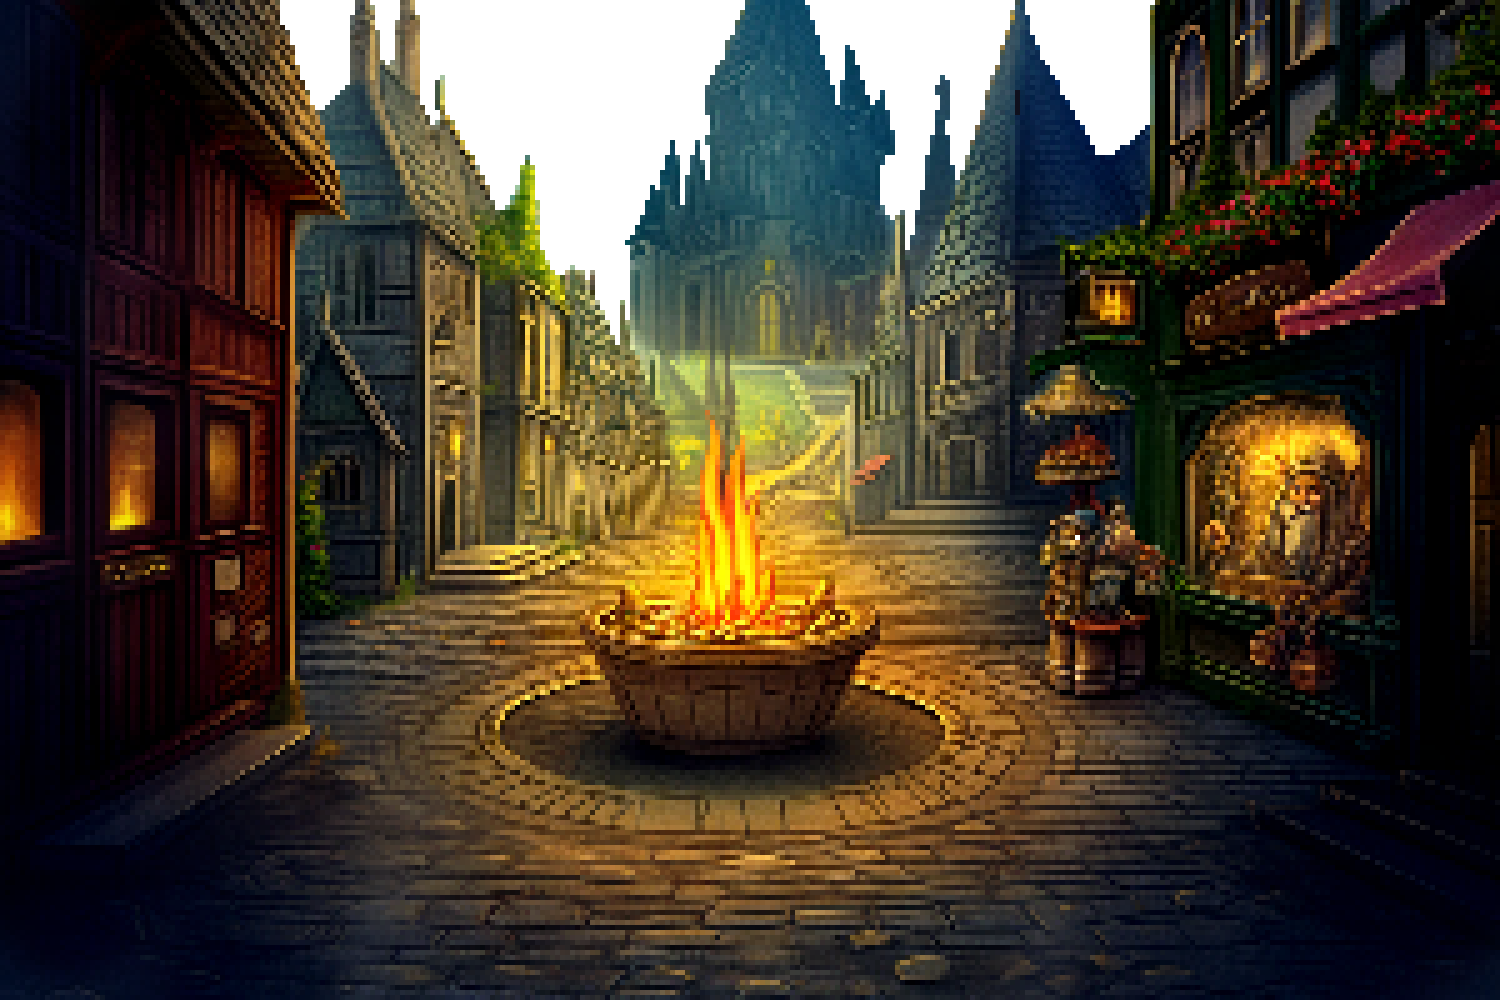
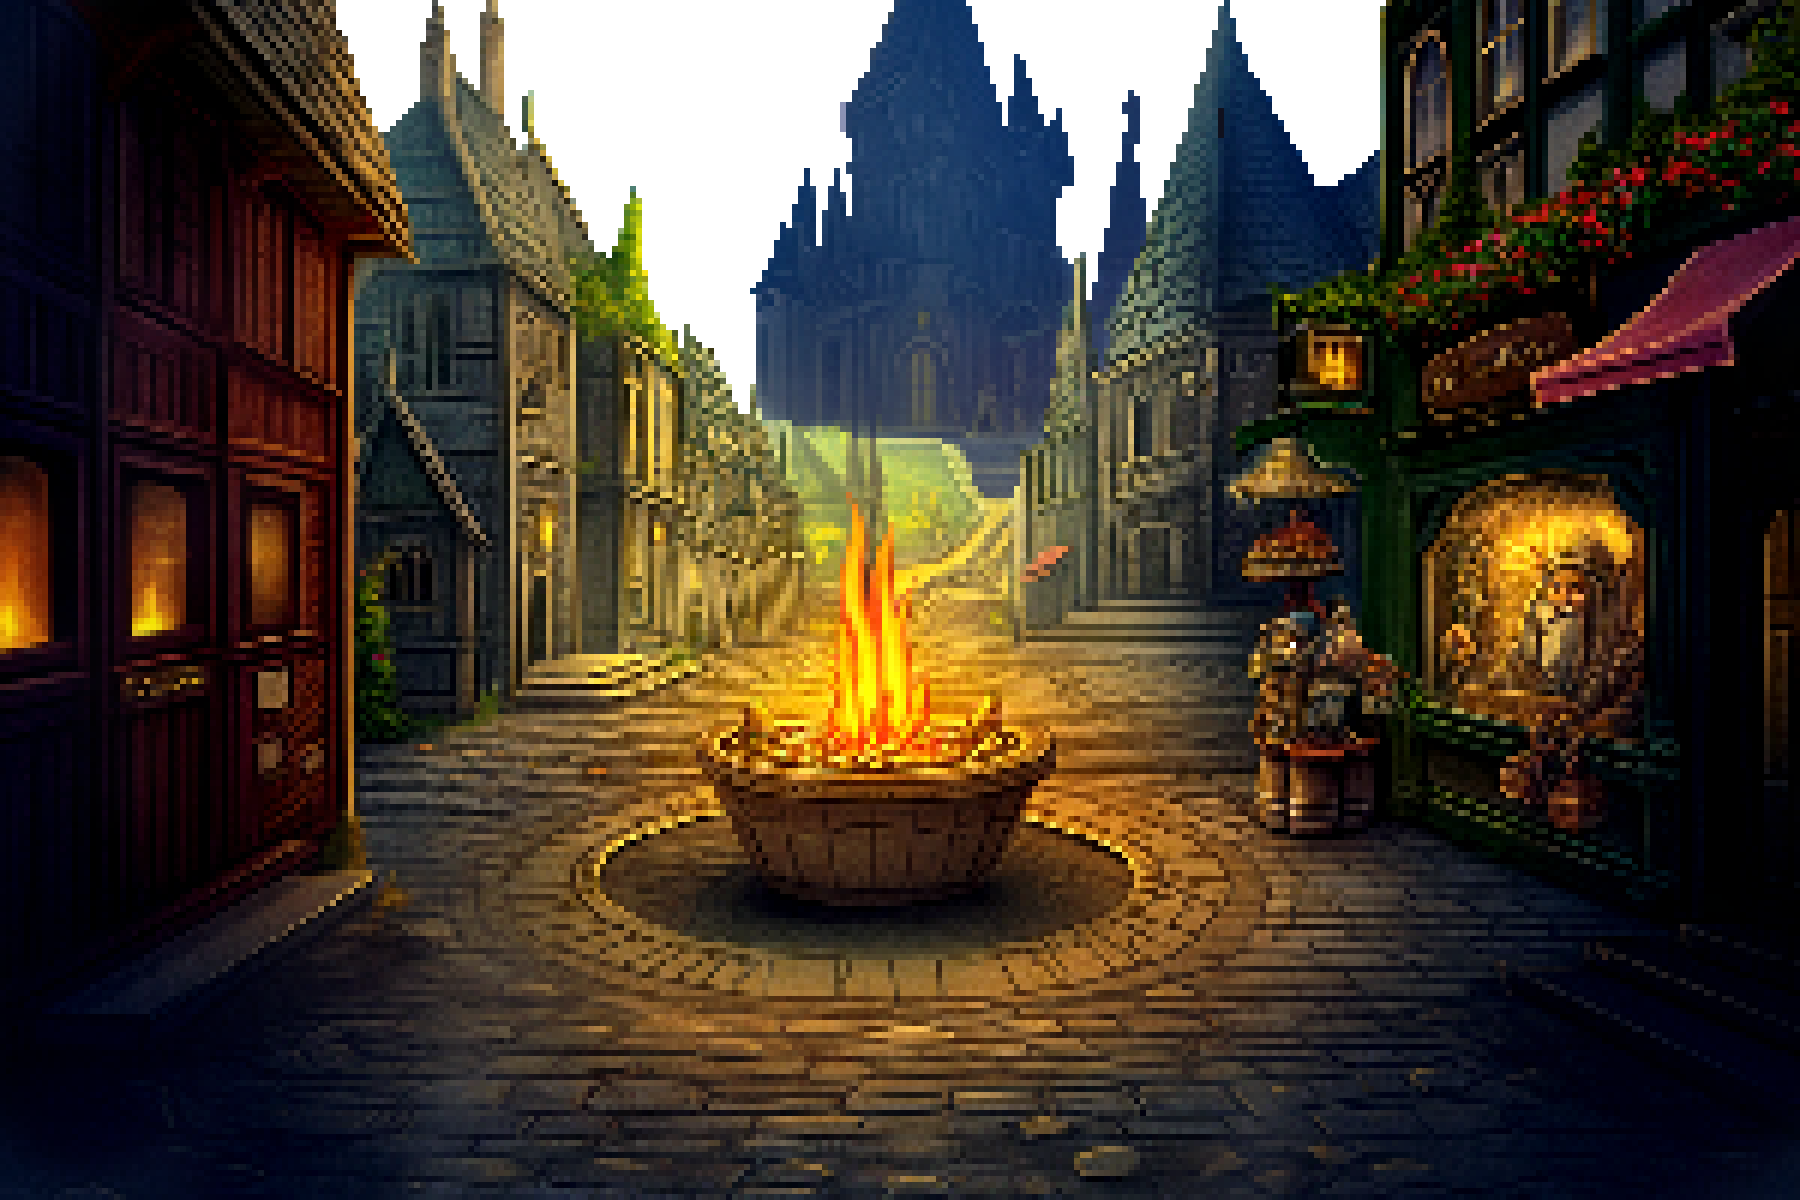
added crossroads kind of

Changed region(s): [[0.368, 0.0, 0.6133, 0.434], [0.2147, 0.0, 0.276, 0.062], [0.3373, 0.186, 0.368, 0.217]]

diff --git a/cavern/crossroads/crossroads.js b/cavern/crossroads/crossroads.js
@@ -15,61 +15,69 @@ function ready() {
     // Initialize selected item to -1 (no selection)
     localStorage.setItem("selected", -1);
     localStorage.setItem("free", 1);
+    localStorage.setItem("has-award-6", "true");
     
     checkHave();
     
+    if (localStorage.getItem("faded") == "true"){
+        fade(0);
+    }
+
     // Initialize items and start rain effects
     initItems();
     sleep(40).then(() => {init = "false";});
 
-    document.getElementsByClassName("cove")[0].addEventListener("click", function(){
-        if (localStorage.getItem("moon") == 3){
-            window.location.href = "../../ascii/beach/beach.html";
-        }
+    document.getElementsByClassName("entry")[0].addEventListener('click', async function(){
+        await fade(1);
+        await sleep(1000);
+        window.location.href = "../entry/entry.html"
     });
 
-    if (localStorage.getItem("leverDown") != "true"){
-        document.getElementsByClassName("fore-art")[0].classList.remove("hide");
+    document.getElementsByClassName("coin-but").addEventListener('click', function(){
+        if (localStorage.getItem("free") < 9 || localStorage.getItem("held-coins") > 0){
+            if (localStorage.getItem("held-coins") = 0){
+                getIte("coin");
+            }
+            localStorage.setItem("held-coins", parseInt(localStorage.getItem("held-coins")) + 5);
+        }
+    });
+}
+
+async function fade(dir){
+    if (localStorage.getItem("faded") == "true"){
+        localStorage.setItem("faded", "false");
     }
     else {
-        document.getElementsByClassName("gate-but")[0].addEventListener('click', function(){
-            window.location.href = "../crossroads/crossroads.html"
-        });
+        localStorage.setItem("faded", "true");
     }
 
-    if (localStorage.getItem("door-unbarred") == "true"){
-        unbar();
+    var fade = document.createElement("div");
+    fade.innerHTML = `<img draggable="false" class="main-art" src="../../global-art/black.png" alt="">`;
+    document.getElementsByTagName("body")[0].appendChild(fade);
+    fade.style.opacity = 0;
+    await fadeG(0, dir, fade);
+    if (dir == 0){
+        fade.remove();
+    }
+    return;
+}
+
+async function fadeG(spot, dir, el){
+    if (spot == 11){
+        return;
     }
     else {
-        bar();
-    }
-    document.getElementsByClassName("bar-but")[0].addEventListener('click', function(){
-        if (localStorage.getItem("door-unbarred") == "true"){
-            bar();
+        if (dir == 0){
+            el.style.opacity = 1 - 0.1 * spot;
         }
         else {
-            unbar();
+            console.log(document.getElementsByTagName("body"));
+            el.style.opacity = 0.1 * spot;
         }
-    });
-
-
-    document.getElementsByClassName("door-but")[0].addEventListener('click', function(){
-        if (localStorage.getItem("door-unbarred") == "true"){
-            if (localStorage.getItem("door-unlocked") == "true"){
-                window.location.href = "../elevator/elevator.html";
-            }
-            else{
-                if (inConvo == "false"){
-                    respond("locked");
-                }
-            }
-        }
-        else{
-            if (inConvo == "false"){
-                respond("barred");
-            }
-        }
-    });
+    }
+    await sleep(100);
+    await fadeG(spot + 1, dir, el);
+    return;
 }
 
 function bar(){

diff --git a/cavern/crossroads/crossroads.html b/cavern/crossroads/crossroads.html
@@ -5,8 +5,8 @@
         <script type="module" src="../../aud.js" async></script>
         <meta name="description" content="Footsteps">
         <link rel="icon" type="image/x-icon" href="../../icon.ico">
-        <link rel="stylesheet" href="entry.css"\>
-        <script type="module" src="entry.js" async></script>
+        <link rel="stylesheet" href="crossroads.css"\>
+        <script type="module" src="crossroads.js" async></script>
         <script type="module" src="audio.js" async></script>
     </head>
 
@@ -22,9 +22,9 @@
         <div class="bottom"></div>
         <div class="top"></div>
 
-        <img draggable="false" class="main-art" src="entry-art/main-back.png" alt="">
-        <img draggable="false" class="hide fore-art" src="entry-art/door.png" alt="">
-        <div class="bar"></div>
+        <img draggable="false" class="back-art" src="crossroads-art/background.png" alt="">
+        <img draggable="false" class="main-art" src="crossroads-art/crossroads-main.png" alt="">
+        <img draggable="false" class="fore-art" src="crossroads-art/coin-purse.png" alt="">
 
         <div id="award1">
             <img draggable="false" class="hide award-art" id="awardimg1" src="../../global-art/achievements/award1.png" alt="">
@@ -91,10 +91,12 @@
             <button tabindex="-1" class="item art item-art spot8"></button>
         </div>
         
-        <button class="hide gate-but"></button>
-        <button class="hide door-but"></button>
-        <button class="hide cove"></button>
-        <button class="hide bar-but"></button>
+        <a href="../alley/alley.html"><button tabindex="-1" class="hide alley"></button></a>
+        <a href="../gardens/gardens.html"><button tabindex="-1" class="hide gardens"></button></a>
+        <button tabindex="-1" class="hide entry"></button>
+        <a href="../shop/shop.html"><button tabindex="-1" class="hide shop"></button></a>
+        <button class="hide coin-but"></button>
+        <button class="hide fire-but"></button>
 
         <div class="text-box"></div>
     </body>

diff --git a/ascii/portal/portal.html b/ascii/portal/portal.html
@@ -33,7 +33,7 @@
                 <span class="art">|..///.                     ...\//            ..\/ \ //                    \/\///.                ...\             \//     //           \ \/*---*//                  \       \//          \.//         \  /**--.</span>
                 <span class="art">|    /***----.....----***\   /*---...---*\    //                      \   /***--.....--***\.               \     //             \//     //                    \-.--*//            \/           \//       </span>
                 <span class="art">|   //                        \ //              \ .///.                   ...\ //                   \             ...\...///            ..\     ///.                 ...\    ///           ..\          ..\</span>
-                <span class="art">|  //                          \/                \.. /***----...----***\  //>                     \*--...--***\     /***--..--***\       /***---....---***\       /**--..--**\/**-----**\</span>
+                <span class="art">|  //                          \/                \.. /***----...----***\  //                     \*--...--***\     /***--..--***\       /***---....---***\       /**--..--**\/**-----**\</span>
                 <span class="art">|.//                            \                 \ //                      <span class="invis art">\//</span>                       \-            \   //                \*--.//                     \     //         -   \             \--..... </span>
                 <span class="art">|//                              \                 //                        <span class="invis art">\</span>                         \             \ //                  \   //                       \...//               \             \  ||  |</span>
                 <span class="art">|//.                             .\..........---*//                          <span class="invis art">\ </span>                       .\             \/                   .\ //                         \ ///               .\            .\ ||  </span>

diff --git a/cavern/crossroads/crossroads.css b/cavern/crossroads/crossroads.css
@@ -60,7 +60,7 @@ body {
     height:45px;
 }
 
-.main-art, .fore-art, .bar{
+.main-art, .fore-art, .back-art{
     position: fixed;
     top: 62px;
     left: 225px;
@@ -68,37 +68,52 @@ body {
     height: 715px;
 }
 
-.bar-but{
+.fire-but{
     position: fixed;
-    top: 410px;
-    left: 285px;
-    height: 60px;
-    width: 300px;
-    rotate: -5deg;
+    top: 450px;
+    left: 650px;
+    height: 130px;
+    width: 180px;
 }
 
-.cove{
+.coin-but{
+    position: fixed;
+    top: 540px;
+    left: 870px;
+    height: 70px;
+    width: 70px;
+}
+
+.entry{
     position: fixed;
     top: 700px;
     left: 300px;
     height: 77px;
-    width: 500px;
+    width: 900px;
 }
 
-.door-but{
+.alley{
     position: fixed;
-    top: 140px;
-    left: 340px;
-    height: 550px;
-    width: 220px;
+    top: 360px;
+    left: 430px;
+    height: 200px;
+    width: 100px;
 }
 
-.gate-but{
+.gardens{
     position: fixed;
-    top: 300px;
-    left: 820px;
-    height: 440px;
-    width: 300px;
+    top: 310px;
+    left: 680px;
+    height: 120px;
+    width: 145px;
+}
+
+.shop{
+    position: fixed;
+    top: 350px;
+    left: 1050px;
+    height: 150px;
+    width: 150px;
 }
 
 .item{

diff --git a/ascii/home.js b/ascii/home.js
@@ -78,6 +78,7 @@ function resett(ite){
     localStorage.setItem("aud-spot-forest", 0);
     localStorage.setItem("aud-spot-beach", 0);
     localStorage.setItem("aud-spot-cavern", 0);
+    localStorage.setItem("held-coins", 0);
 
     localStorage.setItem("faded", "false");
 
